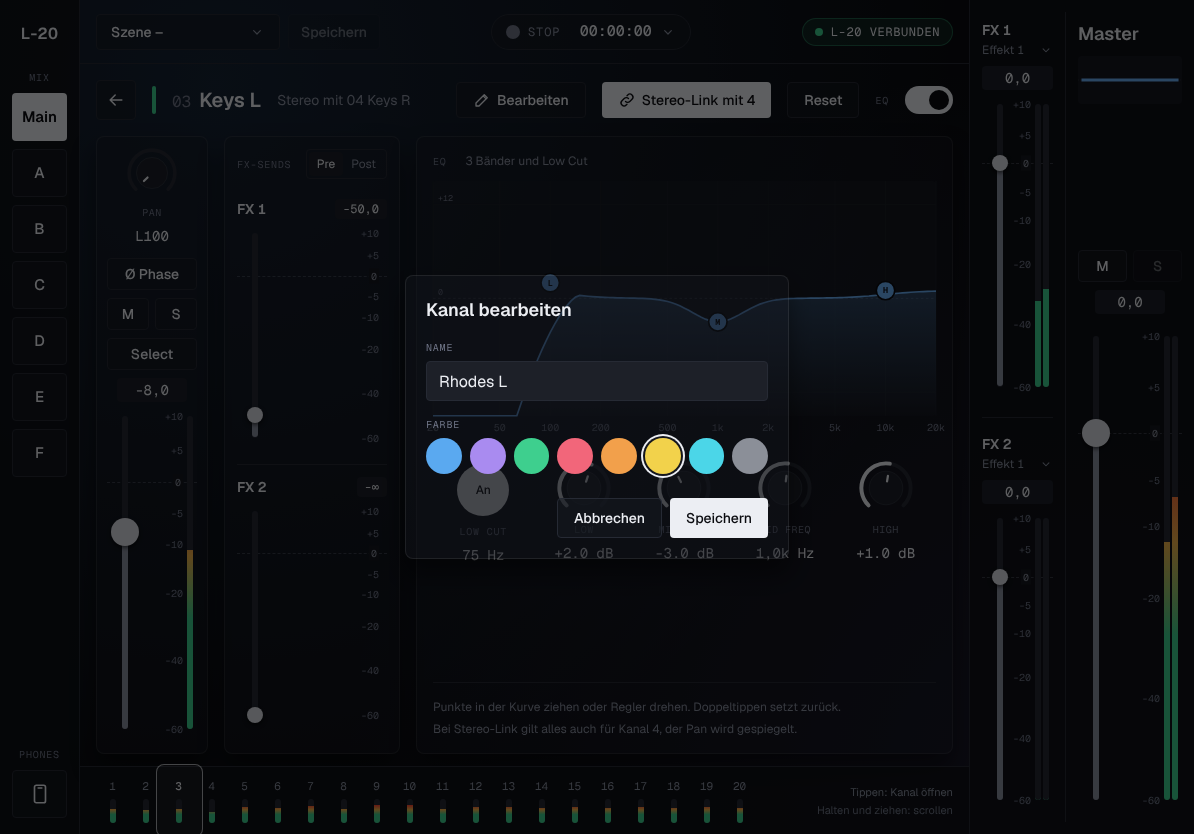
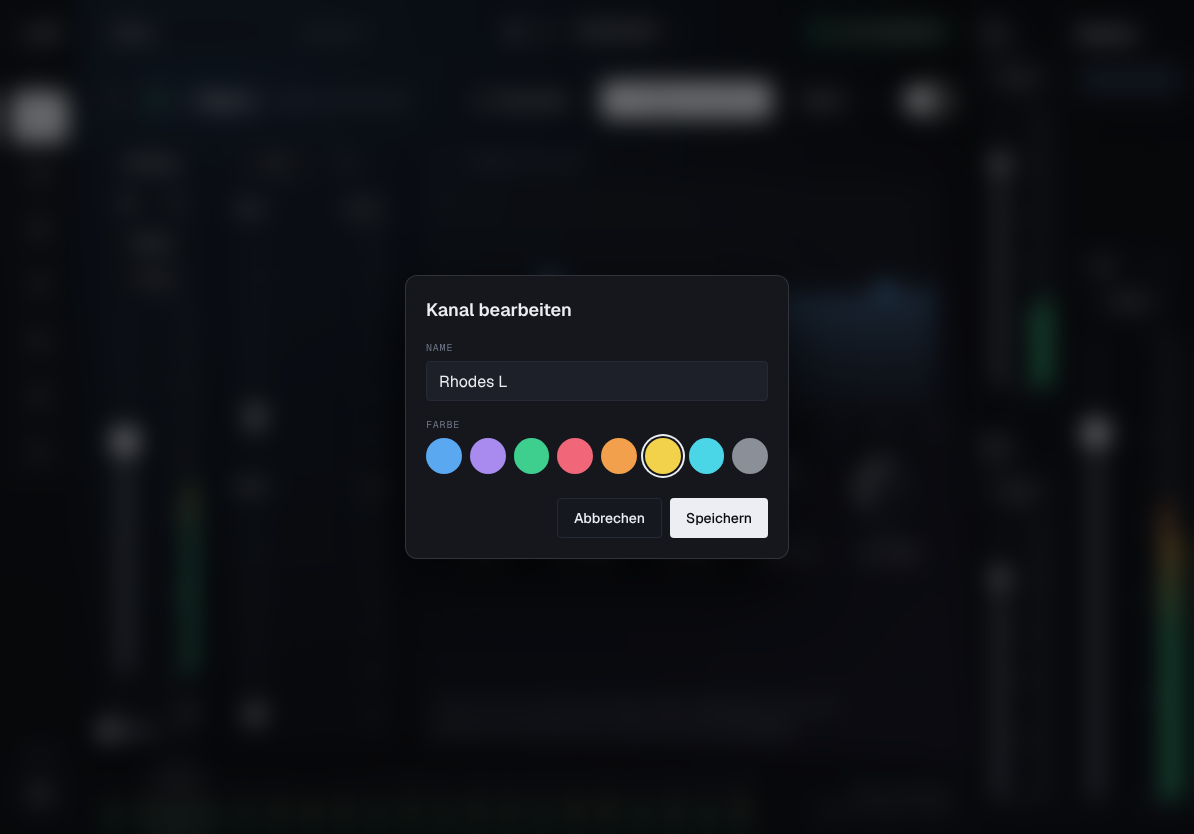
fix(ui): blurred overlay and solid, raised edit dialog
Claude-Session: https://claude.ai/code/session_01KbLEJ1Gsh3xGpwrhXZZo4P

diff --git a/src/ui/screens/ChannelDetail.tsx b/src/ui/screens/ChannelDetail.tsx
@@ -286,13 +286,13 @@ function EditDialog({
   const [draft, setDraft] = useState({ name, color })
   return (
     <div
-      className="fixed inset-0 z-30 flex items-center justify-center bg-black/60"
+      className="fixed inset-0 z-30 flex items-center justify-center bg-black/50 backdrop-blur-md"
       onClick={onClose}
     >
       <form
         role="dialog"
         aria-label="Kanal bearbeiten"
-        className="card bg-surf w-96 p-5"
+        className="bg-surf w-96 rounded-xl border border-white/12 p-5 shadow-[0_24px_64px_rgb(0_0_0/0.7)]"
         onClick={(e) => e.stopPropagation()}
         onSubmit={(e) => {
           e.preventDefault()
